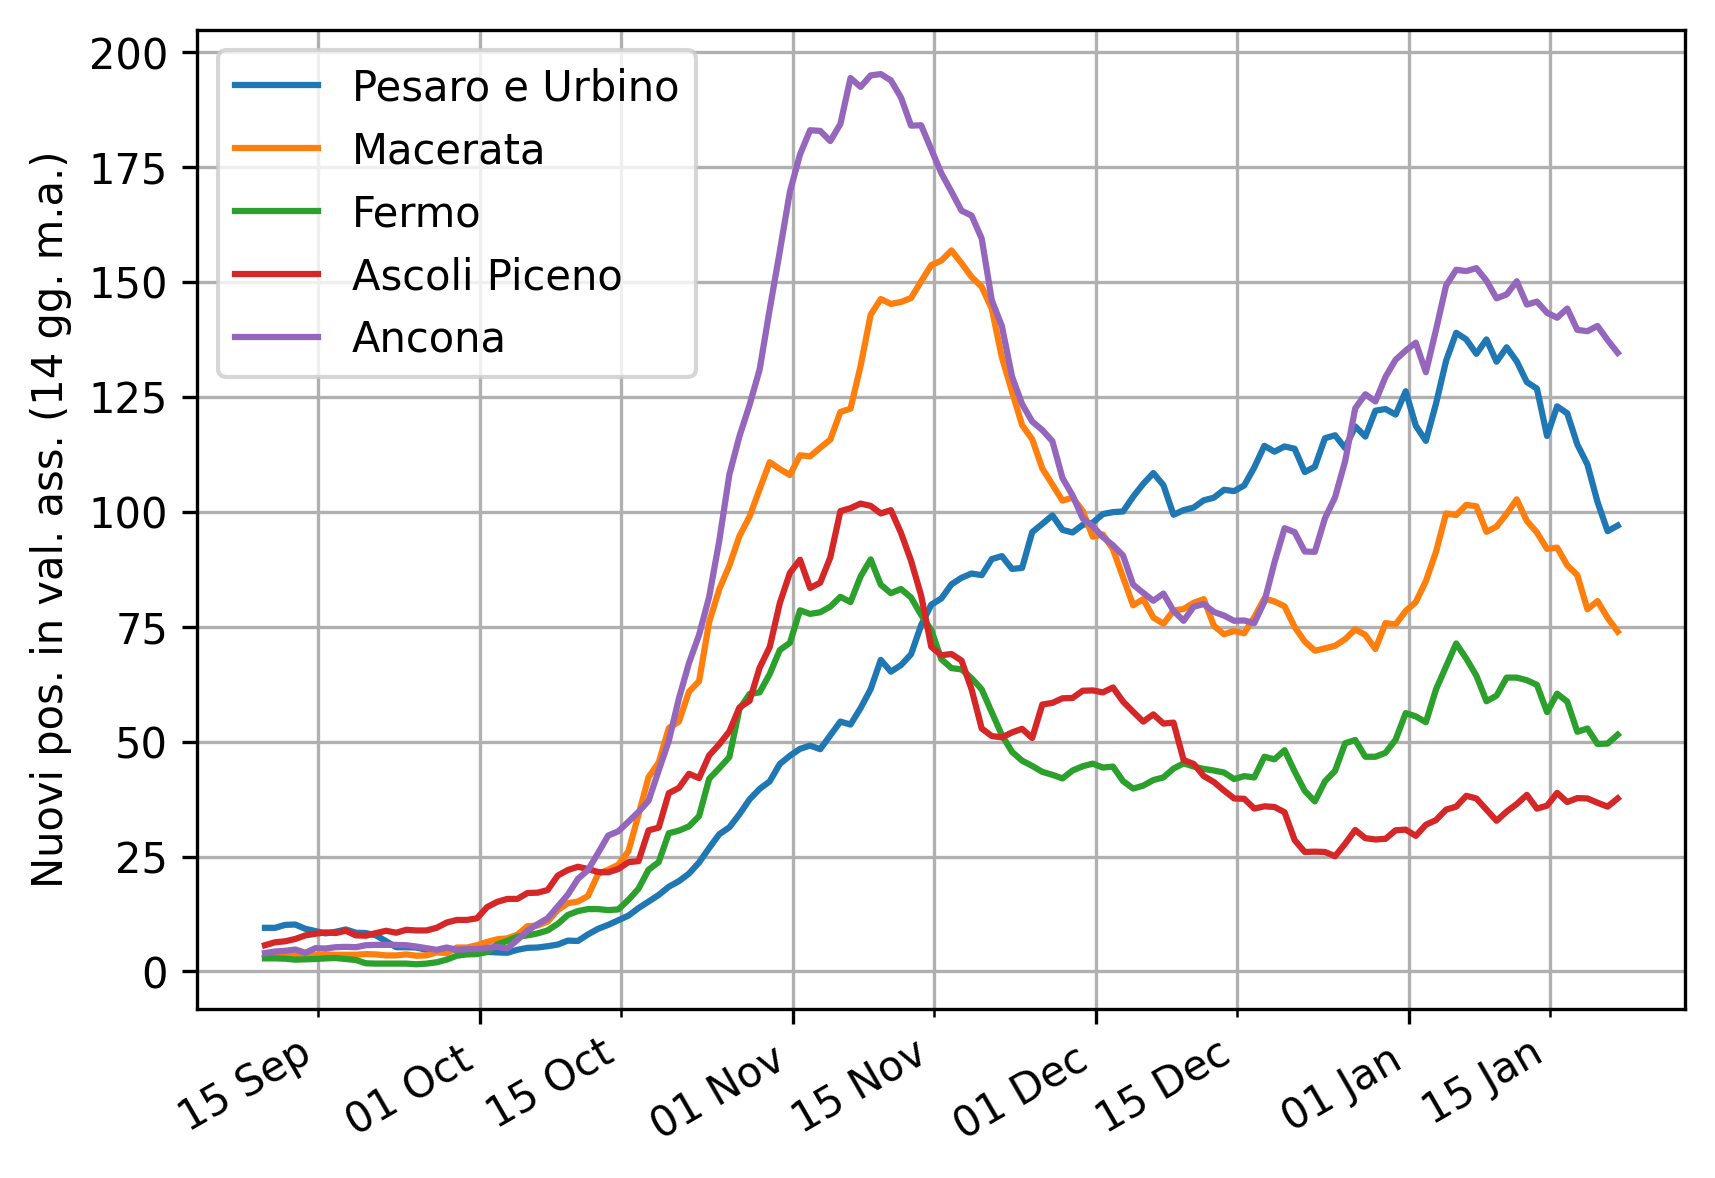
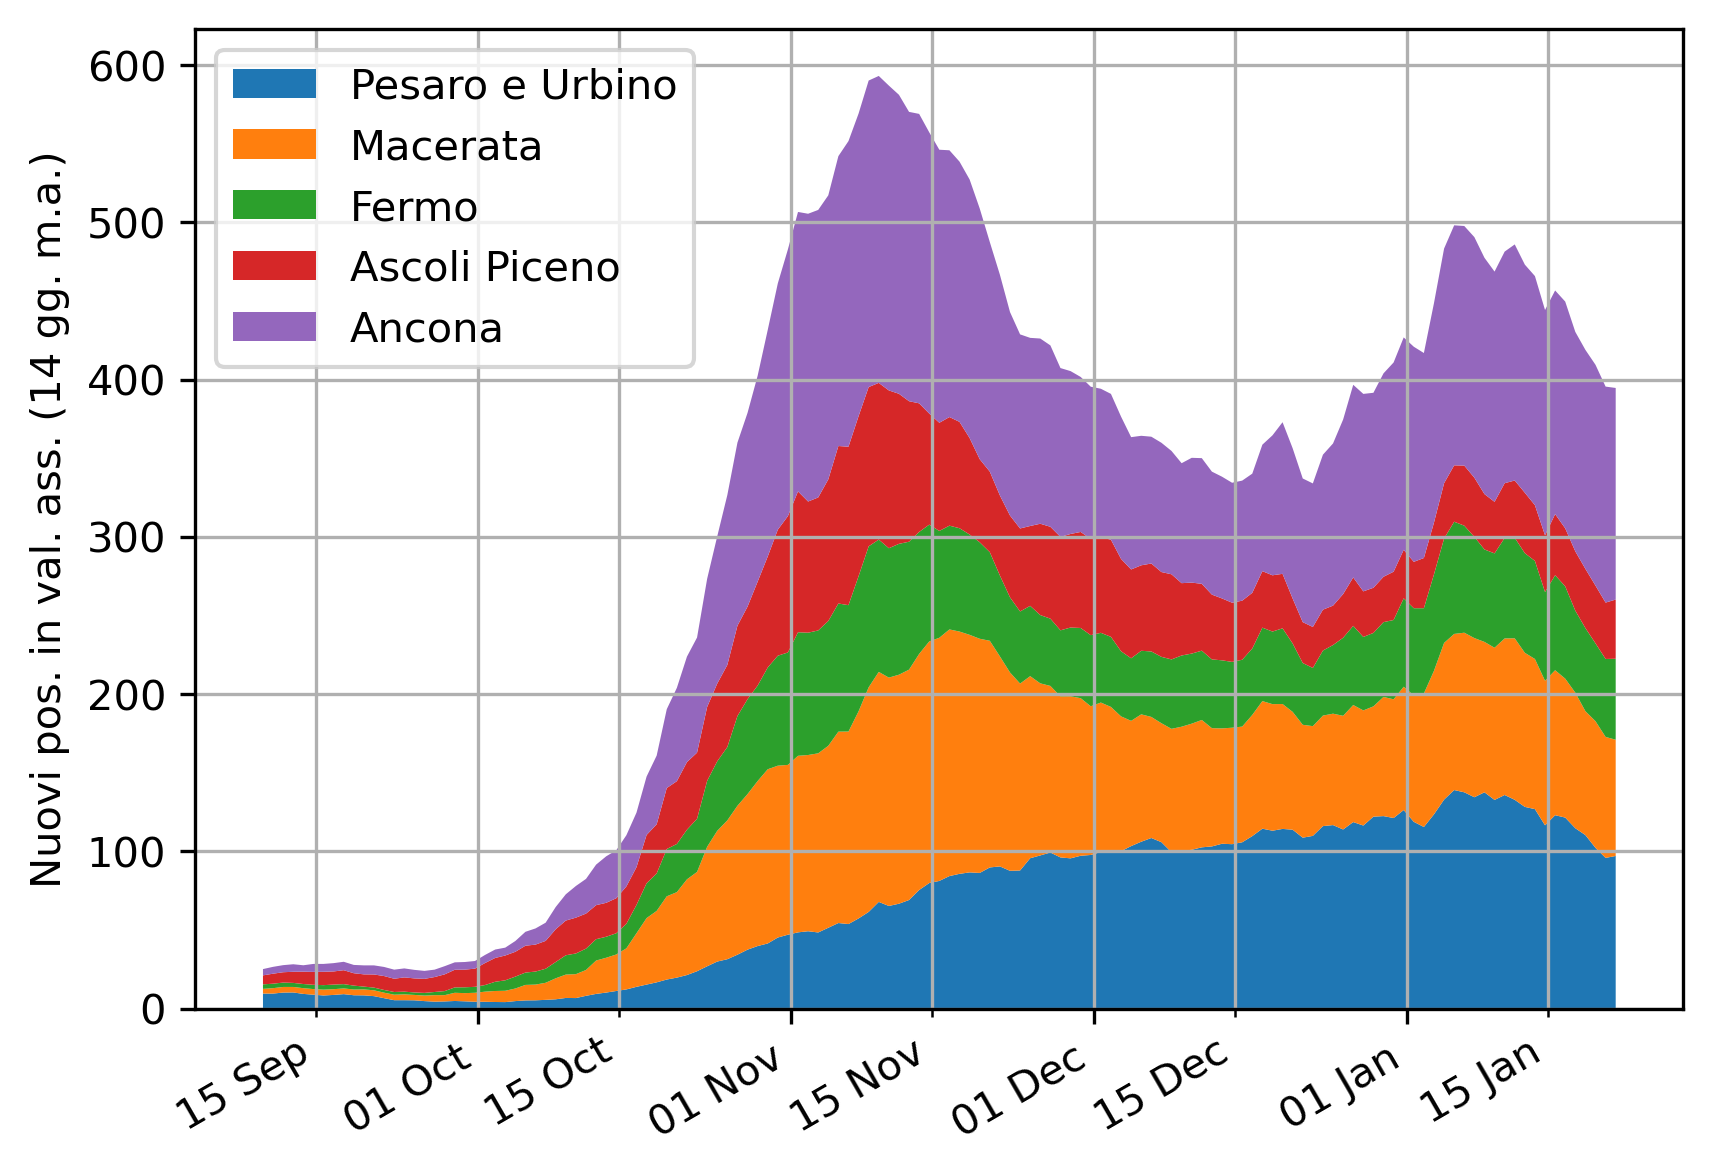
New stacked area chart

diff --git a/provinces/analysis.py b/provinces/analysis.py
@@ -54,10 +54,16 @@ def compute_total_cases_per_provinces_abs(save_image=False, show=False):
     Computes and plots total cases in Marche provinces, as absolute cases.
     """
 
+    cases_stack = []
+    labels = []
+    dates = []
     for province_name, province_data in provinces_of_marche_data.items():
         cases = utils.compute_x_days_mov_average(province_data['incremento_casi'], 14)
-        plt.plot(province_data['data'], cases, label=province_name)
+        cases_stack.append(cases)
+        labels.append(province_name)
+        dates = province_data['data']
 
+    plt.stackplot(dates, cases_stack, labels=labels)
     plt.gca().xaxis.set_major_locator(MonthLocator())
     plt.gca().xaxis.set_minor_locator(MonthLocator(bymonthday=15))
     plt.gca().xaxis.set_major_formatter(DateFormatter('%d %b'))
@@ -65,7 +71,7 @@ def compute_total_cases_per_provinces_abs(save_image=False, show=False):
     plt.gcf().autofmt_xdate(which='both')
     plt.grid(True, which='both', axis='both')
     plt.ylabel('Nuovi pos. in val. ass. (14 gg. m.a.)')
-    plt.legend()
+    plt.legend(loc='upper left')
 
     if save_image:
         plt.savefig('./docs/totale_casi_per_province_marche_abs.png', dpi=300, transparent=True, bbox_inches='tight')

diff --git a/vaccines/analysis.py b/vaccines/analysis.py
@@ -12,7 +12,6 @@ from .areas_name import areas_name_dict as areas_name
 from . import areas
 from .data_extractor import benchmark_regions_data, extract_area_adm_data
 from .data_extractor import nation_data
-# import utils
 
 
 def compute_adm(save_image=False, show=False, area_code=areas.italia):
@@ -21,6 +20,8 @@ def compute_adm(save_image=False, show=False, area_code=areas.italia):
     """
     data = extract_area_adm_data(area_code)
 
+    # plt.stackplot(data['data_somministrazione'], data['prima_dose'],data['seconda_dose'],
+    #               labels=['Prime dosi', 'Seconde dosi'])
     plt.bar(data['data_somministrazione'], data['prima_dose'], label='Prime dosi')
     plt.bar(data['data_somministrazione'], data['seconda_dose'], bottom=data['prima_dose'],
             label='Seconde dosi')

diff --git a/charts_generation.py b/charts_generation.py
@@ -16,6 +16,7 @@ vacc_nat.compute_adm(save_image=True, show=False, area_code=areas.marche)
 vacc_nat.compute_immunes_per_regions(save_image=True, show=False)
 
 national_analysis.compute_national_parameters(save_image=True, show=False)
+
 regions_analysis.compute_ti_occupation_per_regions(save_image=True, show=False)
 regions_analysis.compute_rt_per_regions(save_image=True, show=False)
 regions_analysis.compute_weekly_incidence(save_image=True, show=False)
